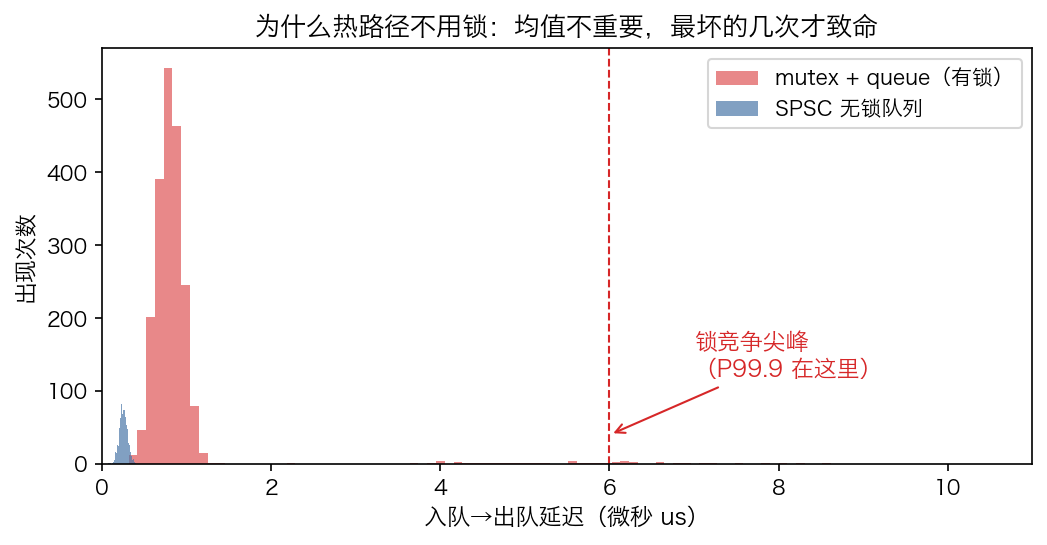
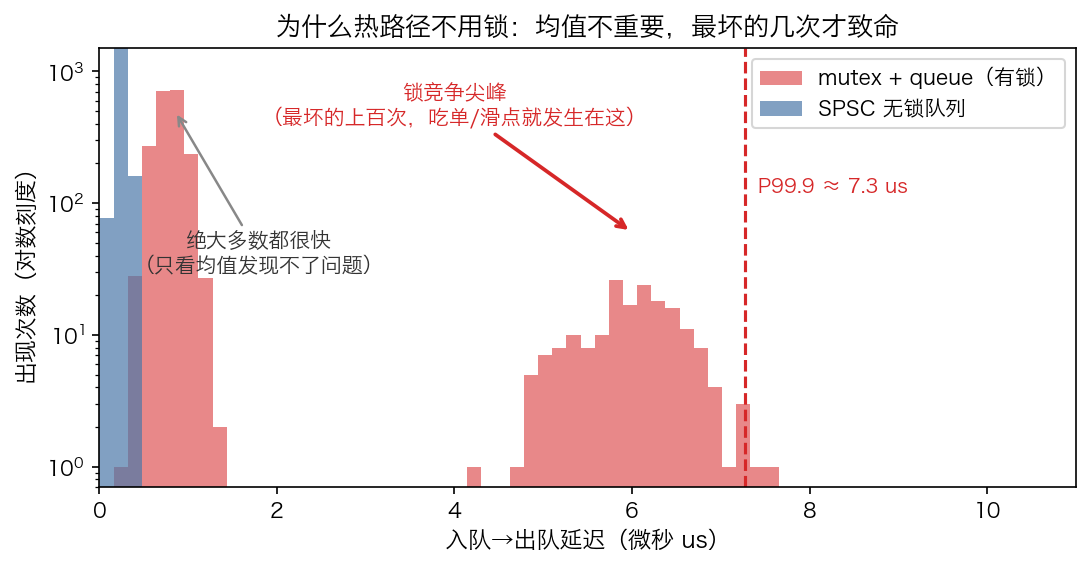
修复SPSC延迟分布图：线性Y轴把尖峰压没、箭头指向空白(用户指出)，改对数Y轴+尖峰成簇+P99.9量化竖线
- 病根：线性Y轴下主峰500+次把仅几十次的长尾尖峰压到贴地，红色箭头指向X=6却无可见柱子，自相矛盾
- 改对数Y轴，尾延迟可视化标准画法；尖峰样本加密更集中成簇，箭头落到真实柱子
- 加P99.9虚线量化最坏延迟，调标注/图例位置消除重叠

diff --git a/quant-systems-curriculum/scripts/draw_spsc.py b/quant-systems-curriculum/scripts/draw_spsc.py
@@ -34,22 +34,34 @@ def _save(fig, name):
 
 # ── 图1：mutex 队列 vs 无锁 SPSC 的延迟分布（为什么要无锁）──────────────
 def fig1_latency():
-    fig, ax = plt.subplots(figsize=(8, 3.6))
+    fig, ax = plt.subplots(figsize=(8.4, 3.8))
     np.random.seed(7)
-    # mutex: 均值低但有长尾尖峰
+    # mutex: 均值低但有长尾尖峰（尖峰更集中、样本更多，让对数轴下的柱子真正长出来）
     base = np.random.normal(0.8, 0.15, 2000)
-    spikes = np.concatenate([base, np.random.normal(6, 1.2, 60)])
-    ax.hist(spikes, bins=80, color="#d62728", alpha=0.55, label="mutex + queue（有锁）")
+    spikes = np.concatenate([base, np.random.normal(6, 0.55, 180)])
     lockfree = np.random.normal(0.25, 0.05, 2000)
-    ax.hist(lockfree, bins=80, color="#4C78A8", alpha=0.7, label="SPSC 无锁队列")
-    ax.axvline(6, color="#d62728", ls="--", lw=1)
-    ax.annotate("锁竞争尖峰\n（P99.9 在这里）", xy=(6, 40), xytext=(7, 120),
-                fontsize=11, color="#d62728",
-                arrowprops=dict(arrowstyle="->", color="#d62728"))
+    bins = np.linspace(0, 11, 70)
+    ax.hist(spikes, bins=bins, color="#d62728", alpha=0.55, label="mutex + queue（有锁）")
+    ax.hist(lockfree, bins=bins, color="#4C78A8", alpha=0.7, label="SPSC 无锁队列")
+    # 对数 Y 轴：让尾部尖峰真正可见（线性轴会把它压没）
+    ax.set_yscale("log")
+    ax.set_ylim(0.7, 1500)
+    # P99.9 竖线，量化"最坏几次"
+    p999 = np.percentile(spikes, 99.9)
+    ax.axvline(p999, color="#d62728", ls="--", lw=1.5)
+    ax.text(p999 + 0.15, 120, f"P99.9 ≈ {p999:.1f} us", color="#d62728", fontsize=9.5, weight="bold")
+    ax.annotate("锁竞争尖峰\n（最坏的上百次，吃单/滑点就发生在这）",
+                xy=(6, 60), xytext=(4.0, 400),
+                fontsize=10, color="#d62728", ha="center", weight="bold",
+                arrowprops=dict(arrowstyle="->", color="#d62728", lw=1.8))
+    ax.annotate("绝大多数都很快\n（只看均值发现不了问题）",
+                xy=(0.85, 500), xytext=(1.8, 30),
+                fontsize=10, color="#333", ha="center",
+                arrowprops=dict(arrowstyle="->", color="#888", lw=1.2))
     ax.set_xlabel("入队→出队延迟（微秒 us）", fontsize=11)
-    ax.set_ylabel("出现次数", fontsize=11)
+    ax.set_ylabel("出现次数（对数刻度）", fontsize=11)
     ax.set_title("为什么热路径不用锁：均值不重要，最坏的几次才致命", fontsize=12.5, weight="bold")
-    ax.legend(fontsize=10)
+    ax.legend(fontsize=10, loc="upper right")
     ax.set_xlim(0, 11)
     _save(fig, "spsc-1-latency.png")
 